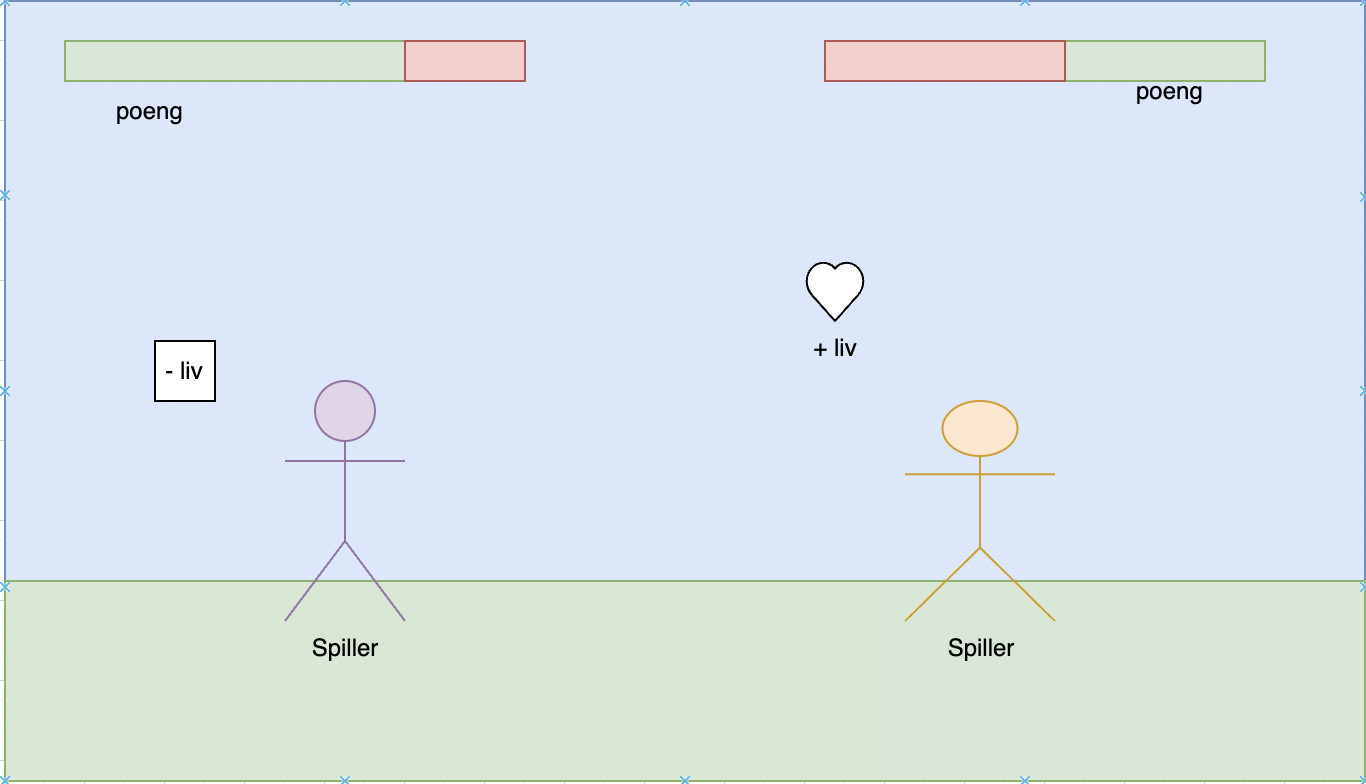
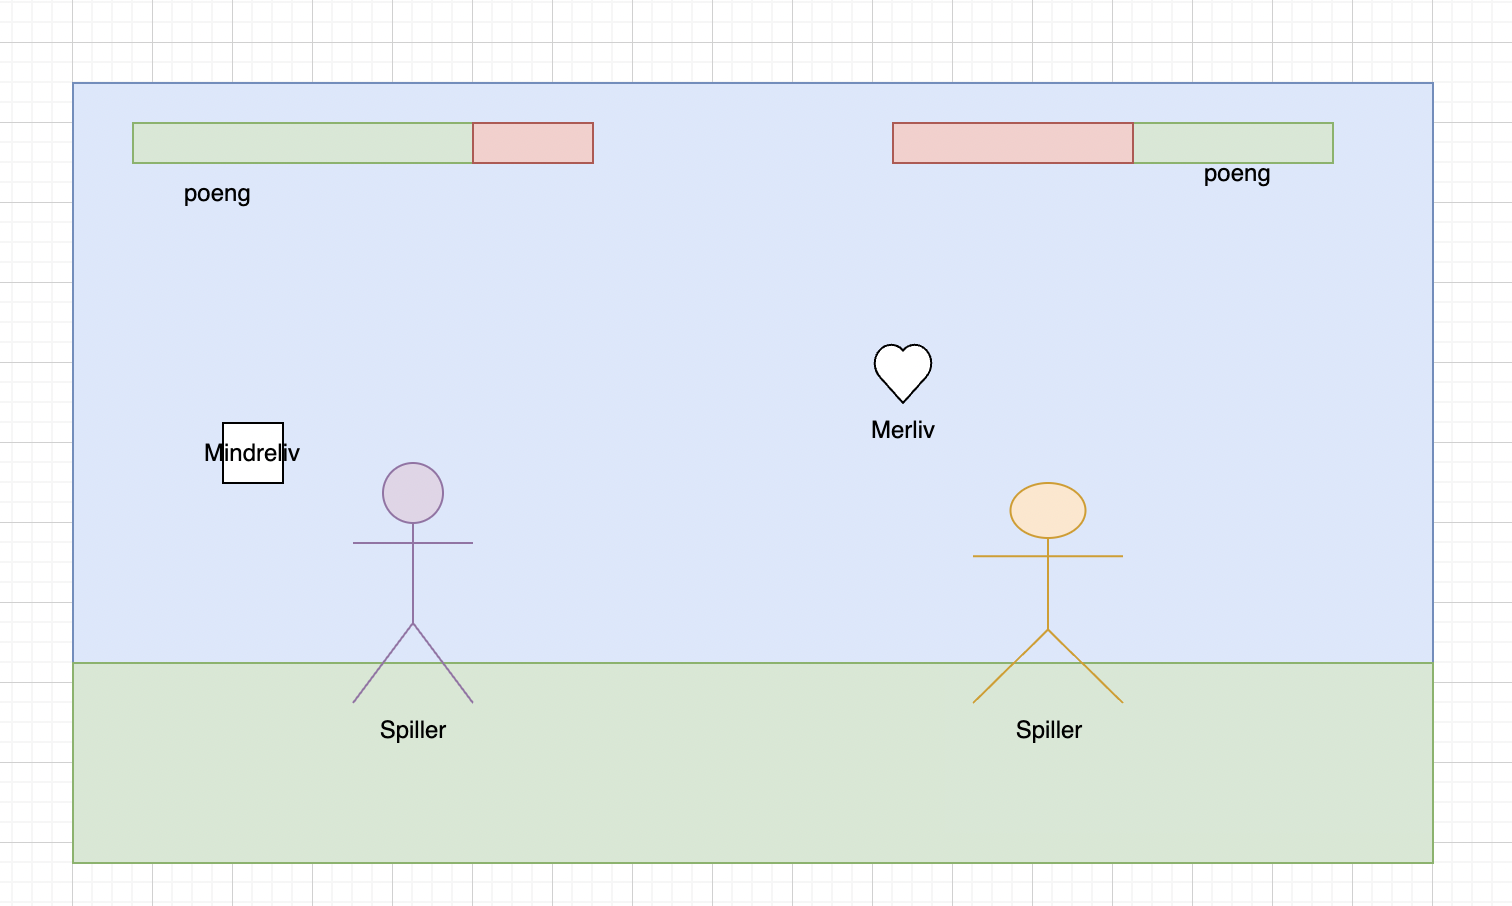
ferdig prosjekt, lagt til arv

diff --git a/spill.py b/spill.py
@@ -87,6 +87,7 @@ spiller_1 = Spiller(1, 200, 310, False, SVERD_DATA, sverd, SVERD_STEG)
 spiller_2 = Spiller(2, 700,310, True, ANDRE_DATA, andre, ANDRE_STEG)
 
 while True:
+
     #tegne bakgrunn
     tegn_bg()
 
@@ -115,6 +116,30 @@ while True:
         if (pygame.time.get_ticks() - nedtelling_update) >= 1000:
             start_nedtelling -= 1
             nedtelling_update = pygame.time.get_ticks()
+    
+
+
+    #kollisjon mellom xliv og spillere
+
+    if spiller_1.kollisjon(merliv):
+        merliv.fjern()
+        spiller_1.liv += 10
+        #spillere får +10 liv hvis de kolliderer med merliv
+
+    if spiller_2.kollisjon(merliv):
+        merliv.fjern()
+        spiller_2.liv += 10
+
+    if spiller_1.kollisjon(mindreliv):
+        mindreliv.fjern()
+        spiller_1.liv -= 10
+        #spillere får -10 liv hvis de kolliderer med mindreliv
+
+    if spiller_2.kollisjon(mindreliv):
+        mindreliv.fjern()
+        spiller_2.liv -= 10
+    
+    
 
     #sjekke hvem som har vunnet
     if runde_slutt == False:
@@ -129,6 +154,7 @@ while True:
             runde_slutt = True
             vinner = "spiller 1"
             runde_slutt_tid = pygame.time.get_ticks()
+
             
     else:
     #print vinneren
@@ -150,6 +176,8 @@ while True:
     spiller_1.update()
     spiller_2.update()
 
+
+
     mindreliv.fall(HOYDE)
     merliv.vis(BREDDE)
 
@@ -170,6 +198,5 @@ while True:
     # 3. oppdater spill
     pygame.display.update()
     # 4. tegn
-    merliv.tegn(vindu)
     
     klokke.tick(FPS)

diff --git a/mindreliv.py b/mindreliv.py
@@ -8,13 +8,13 @@ class Mindreliv(Figur):
     def __init__(self, vindu_bredde: int):
         super().__init__("bilder/mindre.webp", 0.3)
 
-        self.ventetid = 6000
+        self.ventetid = 2000
         self.siste_fall_tid = pygame.time.get_ticks()
         self.ny_plassering(vindu_bredde)
     
     def ny_plassering(self, vindu_bredde: int):
-        self.ramme.centerx = random.randint(0, vindu_bredde)
-        self.ramme.top = 0
+        self.rect.centerx = random.randint(0, vindu_bredde)
+        self.rect.top = 0
         self.siste_fall_tid = pygame.time.get_ticks()
 
     def fall(self, vindu_høyde: int):
@@ -22,6 +22,6 @@ class Mindreliv(Figur):
 
         # Sjekk om nok tid har gått siden forrige fall
         if tid - self.siste_fall_tid > self.ventetid:
-            if self.ramme.top > vindu_høyde:
+            if self.rect.top > vindu_høyde:
                 self.ny_plassering(vindu_høyde)
-            self.ramme.y += 1
+            self.rect.y += 1

diff --git a/figur.py b/figur.py
@@ -5,7 +5,11 @@ class Figur():
     def __init__(self, bildesti: str, scalenr: float):
         self.og_bilde = pygame.image.load(bildesti).convert_alpha()
         self.scale_bilde = pygame.transform.scale(self.og_bilde, (int(self.og_bilde.get_width() * scalenr), int(self.og_bilde.get_height() * scalenr)))
-        self.ramme = self.scale_bilde.get_rect()
+        self.rect = self.scale_bilde.get_rect()
+        self.kollider = False
     
     def tegn(self, vindu: pygame.Surface):
-        vindu.blit(self.scale_bilde, self.ramme)
+        vindu.blit(self.scale_bilde, self.rect)
+
+    def fjern(self):
+        self.rect.topleft = (-100, -100) 

diff --git a/spiller.py b/spiller.py
@@ -20,7 +20,7 @@ class Spiller():
         self.angreptype = 0
         self.angrep_cooldown = 0
         self.skade = False
-        self.liv = 50
+        self.liv = 100
         self.ilive = True
 
 
@@ -205,3 +205,7 @@ class Spiller():
         img = pygame.transform.flip(self.image, self.flip, False)
         
         surface.blit(img, (self.rect.x - (self.offset[0] * self.image_scale), self.rect.y - (self.offset[1] * self.image_scale)))
+
+    def kollisjon(self, xliv):
+        return self.rect.colliderect(xliv.rect)
+        

diff --git a/merliv.py b/merliv.py
@@ -11,8 +11,8 @@ class Merliv(Figur):
         self.ny_plassering(vindu_bredde)
     
     def ny_plassering(self, vindu_bredde: int):
-        self.ramme.centerx = random.randint(0, vindu_bredde)
-        self.ramme.centery = 200 
+        self.rect.centerx = random.randint(0, vindu_bredde)
+        self.rect.centery = 200 
         self.siste_tid = pygame.time.get_ticks()
 
     def vis(self, vindu_bredde: int):
